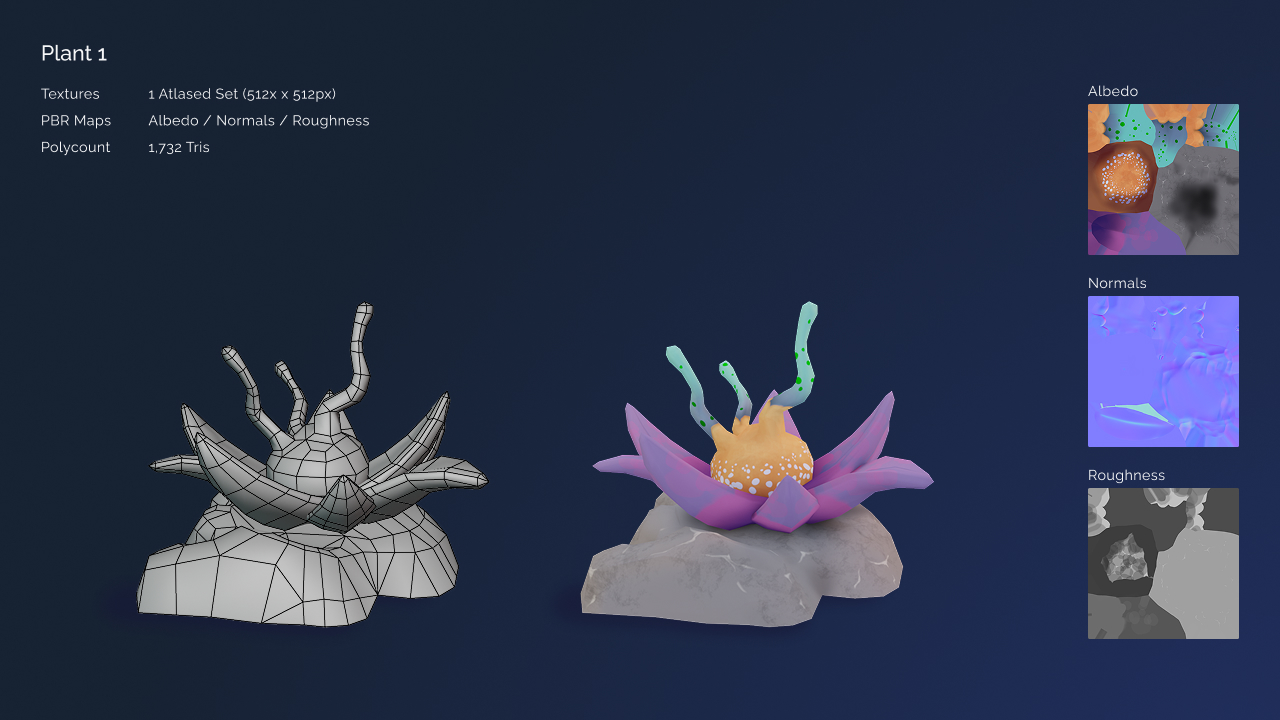
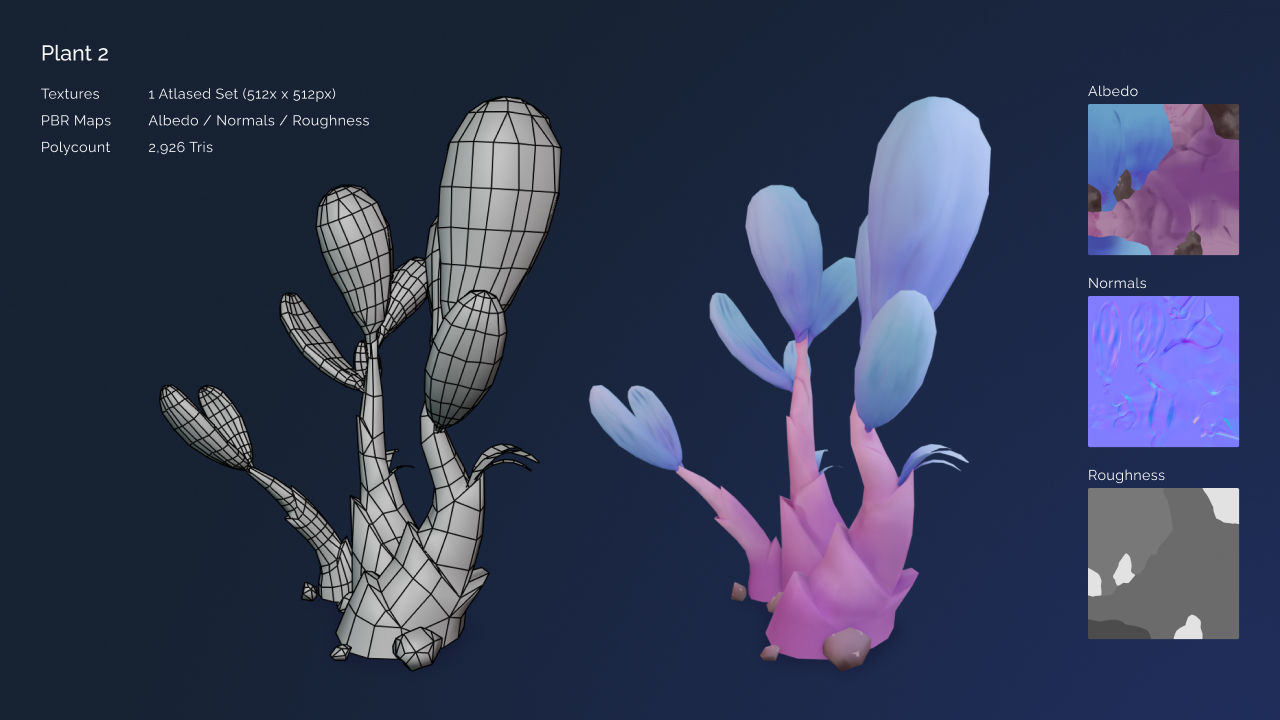
add readme

diff --git a/README.md b/README.md
@@ -19,6 +19,8 @@ Vegetation placement initially relied on pure Perlin noise, but this caused a lo
 ![Vegetation distribution 3](docs/images/flora-foot-print.jpg)
 ![Vegetation distribution 4](docs/images/flora-jittered-ingame.jpg)
 
+---
+
 ### 2. Nomad House Generation
 
 Nomad house slots are procedurally generated by randomly placing wall and ground elements around a base structure. UV textures are also shifted per instance to add extra visual variation between houses.
@@ -26,6 +28,8 @@ Nomad house slots are procedurally generated by randomly placing wall and ground
 ![Nomad house generation 1](docs/images/nomad-kit-slot.jpg)
 ![Nomad house generation 2](docs/images/nomad-kit-texture.jpg)
 ![Nomad house generation 3](docs/images/nomad-kit-ingame.jpg)
+
+---
 
 ### 3. Island Generation
 
@@ -41,6 +45,8 @@ Textures are generated using Unity's orthographic projection to render masks. Th
 
 ![Island texturing 1](docs/images/island-generation-texture.jpg)
 ![Island texturing 2](docs/images/island-generation-ingame.jpg)
+
+---
 
 ### 4. Props
 
